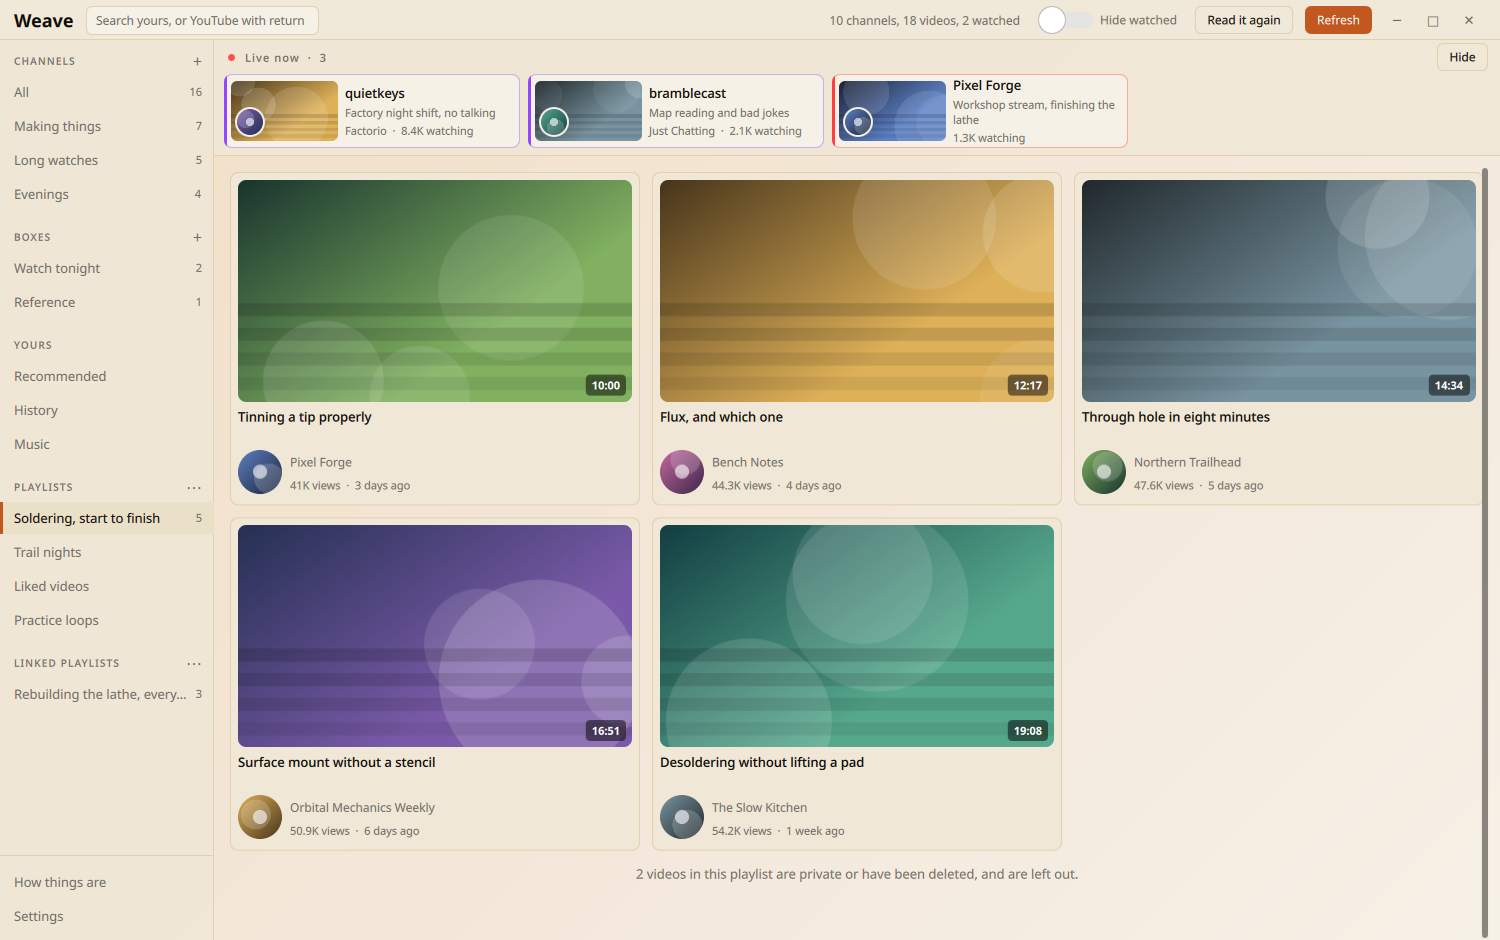
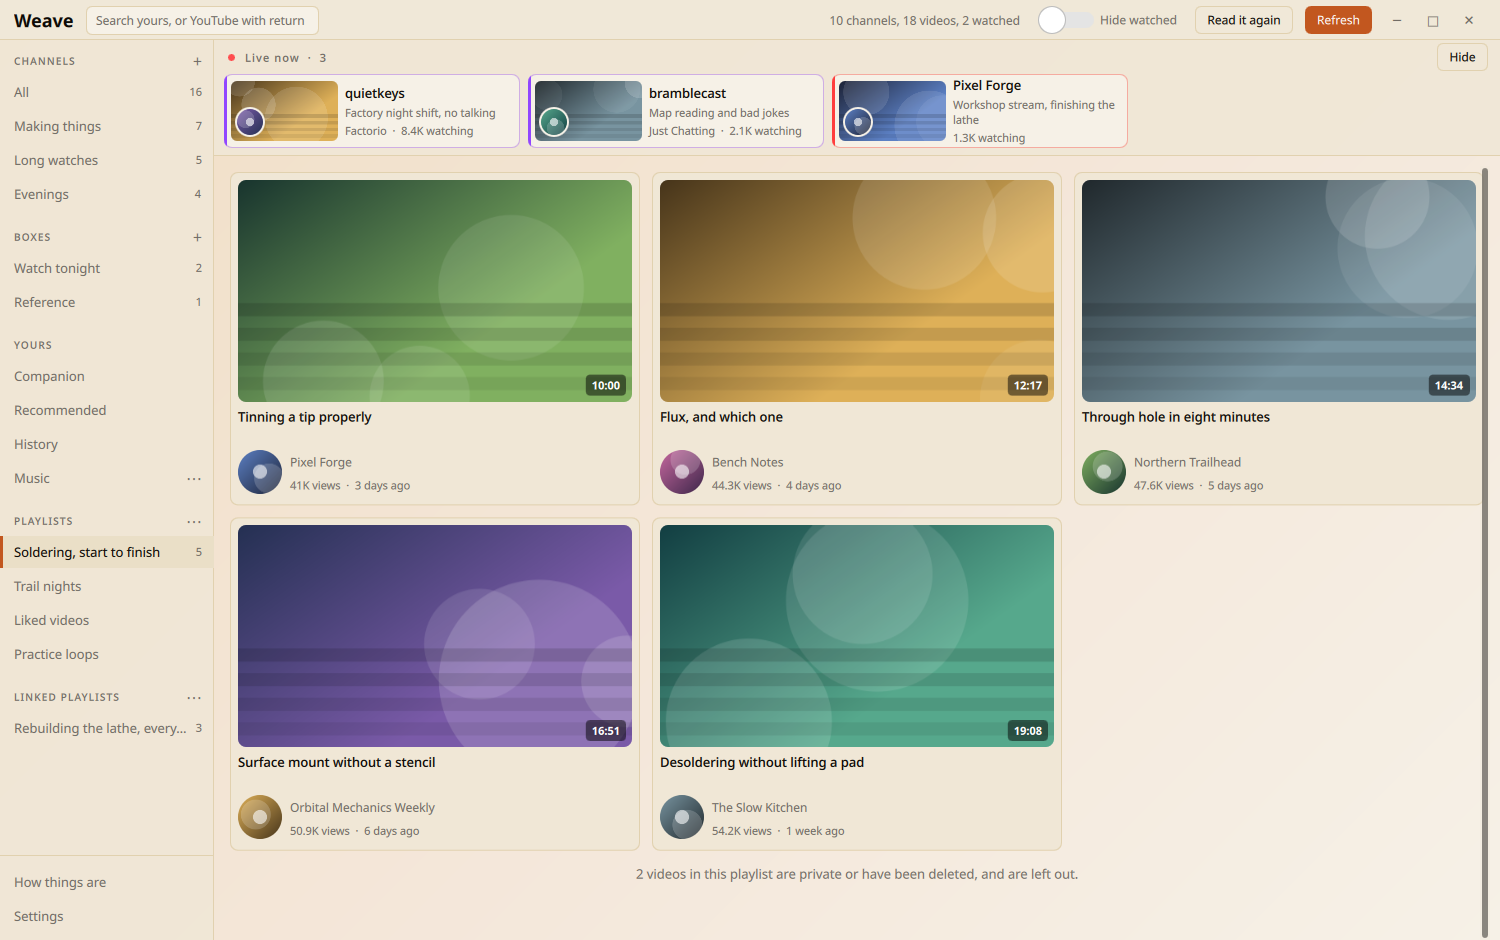
Bring the readme and its pictures up to the October changes
The readme said only favourites were kept on disk and put their ceiling on
the settings page. Any box ticked Keep on disk is kept as well, and the
ceiling sits in the music settings now. It also never mentioned the
companion page, boxes of songs, the search filters and suggestions, or
turning a playlist round.

Every picture is taken again, and three are new: the companion page, the
Now playing page following a song on its lyrics tab, and a box of songs on
its tab. The music picture had lost the shelves it is captioned with,
because the invented shelf songs carried no artist field and a stored set
without one is thrown away as written before songs had it.

Changed region(s): [[0.0, 0.4011, 0.1227, 0.8021]]

diff --git a/tools/shots.py b/tools/shots.py
@@ -42,7 +42,15 @@ os.environ.setdefault("QT_QPA_PLATFORM", "offscreen")
 os.environ.setdefault("QT_QUICK_BACKEND", "rhi")
 os.environ.setdefault("QSG_RHI_BACKEND", "opengl")
 
-from PySide6.QtCore import QCoreApplication, QEventLoop, QMetaObject, QObject, QPointF, QTimer  # noqa: E402
+from PySide6.QtCore import (  # noqa: E402
+    Q_ARG,
+    QCoreApplication,
+    QEventLoop,
+    QMetaObject,
+    QObject,
+    QPointF,
+    QTimer,
+)
 from PySide6.QtGui import QBrush, QColor, QImage, QLinearGradient, QPainter  # noqa: E402
 from PySide6.QtQml import QQmlProperty  # noqa: E402
 
@@ -219,6 +227,51 @@ TRACKS = [
 
 SHELVES = ("Listen again", "Quick picks", "Covers and remixes", "Long listens")
 
+# A box of songs, which makes the tabs over the music page something to see.
+BOX = ("Late drives", (1, 2, 4, 6, 8, 9, 10, 12, 13, 7, 11, 0, 3, 5))
+
+# Words for the song playing in the Now playing picture, timed the way the
+# music service times them. Written for the picture, nobody's song.
+LYRICS = [
+    (74.0, "Salt on the window, the engine's low hum"),
+    (79.5, "Counting the lighthouses, one after one"),
+    (85.0, "You said the coast would be kinder up there"),
+    (90.5, "\u266a"),
+    (96.0, "Long way north, and the road keeps unwinding"),
+    (101.0, "Every mile is a letter I am still writing"),
+    (106.5, "Hold the map steady, the night is still young"),
+    (112.0, "Long way north, till the morning comes"),
+]
+
+# What YouTube recommends beside the video mpv plays, and mpv's playlist, on
+# the companion page.
+COMPANION_CHIPS = ("Mix", "All", "From Kite and Anchor", "Indie folk", "Related",
+                   "Recently uploaded")
+COMPANION_QUEUE = [
+    ("Night Ferry (Official Video)", "Kite and Anchor", "3:28"),
+    ("Harbour Lights (Live at the Old Mill)", "Mireille Vance", "4:12"),
+    ("Long Way North (Official Video)", "Kite and Anchor", "4:07"),
+    ("Glasshouse (Official Music Video)", "Nocturne Drive", "3:43"),
+    ("Second Winter (Acoustic)", "Field of Aerials", "4:28"),
+    ("Paper Lantern", "Bright Static", "3:09"),
+    ("Blue Hour (Visualiser)", "Ilma Rook", "4:04"),
+    ("Tidal (Official Video)", "Field of Aerials", "3:18"),
+]
+COMPANION_CARDS = [
+    ("Static Bloom (Official Video)", "Nocturne Drive", "3:22"),
+    ("Hollow Coast (Live Session)", "Mireille Vance", "3:34"),
+    ("Copper Rain (Live at the Old Mill)", "Bright Static", "5:03"),
+    ("Kite Season", "Kite and Anchor", "4:41"),
+    ("Slow Ascent (Official Video)", "Ilma Rook", "4:55"),
+    ("Low Tide Radio", "Field of Aerials", "3:51"),
+    ("Winter Grain (Lyric Video)", "Mireille Vance", "3:56"),
+    ("Lamplight", "Bright Static", "3:07"),
+    ("Undertow (Official Video)", "Ilma Rook", "4:17"),
+    ("North Shore Sessions, full set", "Kite and Anchor", "38:12"),
+    ("Glass Coast", "Nocturne Drive", "3:40"),
+    ("Second Light", "Field of Aerials", "4:02"),
+]
+
 
 def track_items(offset: int, count: int) -> list[dict]:
     items = []
@@ -226,6 +279,9 @@ def track_items(offset: int, count: int) -> list[dict]:
         title, artist, _ = TRACKS[(offset + index) % len(TRACKS)]
         items.append({
             "title": title, "subtitle": artist,
+            # Present, even empty. A stored set without it is one written
+            # before songs carried their artist, and is thrown away unshown.
+            "artistId": "",
             "videoId": f"mocktrack{offset + index:03d}",
             "playlistId": f"RDAMVMmocktrack{offset + index:03d}",
             # A shelf carries the address the service gave it, which the tile
@@ -393,6 +449,12 @@ def seed(theme: str, height: int = HEIGHT) -> None:
         title, artist, seconds = TRACKS[index]
         db.set_music_favorite(f"mocktrack{index:03d}", True, title, artist,
                               thumb(f"track{index:02d}", index + 40, 320, 320), seconds)
+    box = db.create_music_box(BOX[0])
+    db.put_many_in_music_box(box, [{
+        "ext_id": f"mocktrack{index:03d}", "title": TRACKS[index][0],
+        "artist": TRACKS[index][1], "duration_s": TRACKS[index][2],
+        "thumbnail_url": thumb(f"track{index:02d}", index + 40, 320, 320),
+    } for index in BOX[1]])
 
     # A login of its own, which is what the bar and the settings page read
     # to decide whether to ask for one. Invented, and in the scratch home.
@@ -566,6 +628,76 @@ def shot_music(bridge, _window) -> None:
     settle(3.0)
 
 
+def shot_box(bridge, _window) -> None:
+    """A box of songs, on its tab of the music page."""
+    bridge.showMusic()
+    playing(bridge, at=4)
+    settle(0.6)
+    box = next(row["id"] for row in bridge._db.music_boxes()
+               if row["name"] == BOX[0])
+    bridge.showMusicTab(box)
+    settle(3.0)
+
+
+def shot_nowplaying(bridge, window) -> None:
+    """The page behind the chevron on its Lyrics tab, following the song.
+
+    The words are handed over the way the reading hands them over, since
+    offline nothing arrives. The song has no video here, so its artwork
+    stands where the picture would be."""
+    playing(bridge)
+    audio = bridge._audio
+    # An id of the length the page reads one out of an address.
+    audio._queue[2]["videoId"] = "mocktrack02"
+    audio.trackChanged.emit()
+    bridge.showNowPlaying()
+    settle(1.2)
+    page = find(window, "nowPlayingPage")
+    if page is not None:
+        QMetaObject.invokeMethod(page, "choose", Q_ARG("QVariant", "words"))
+    settle(1.0)
+    lines = [{"at": at, "end": (LYRICS[place + 1][0] if place + 1 < len(LYRICS)
+                                else at + 6.0), "text": text}
+             for place, (at, text) in enumerate(LYRICS)]
+    bridge._on_now_side({
+        "what": "words", "videoId": "mocktrack02", "wordsId": "", "synced": True,
+        "text": "\n".join(text for _at, text in LYRICS if text != "\u266a"),
+        "source": "", "lines": lines})
+    settle(1.6)
+
+
+def shot_companion(bridge, _window) -> None:
+    """The companion page beside a video mpv is playing, without an mpv.
+
+    What the watcher and the recommendations would hand over is handed over
+    here, and the pictures of the queue are put where the cache would look
+    for them."""
+    queue = [f"compqueue{index:02d}" for index in range(len(COMPANION_QUEUE))]
+    for index, (video_id, (title, channel, duration)) in enumerate(
+            zip(queue, COMPANION_QUEUE)):
+        cache(f"https://i.ytimg.com/vi/{video_id}/mqdefault.jpg",
+              _picture(480, 270, index + 70))
+        bridge._companion_known[video_id] = {
+            "title": title, "channel": channel, "duration": duration}
+    cards = [{"video_id": f"compcards{index:02d}", "title": title, "channel": channel,
+              "channel_id": "", "duration": duration, "views": "", "age": "",
+              "picture": thumb(f"companion{index:02d}", index + 90)}
+             for index, (title, channel, duration) in enumerate(COMPANION_CARDS)]
+    playing_at = 2
+    bridge._companion_cache[queue[playing_at]] = {
+        "chips": [{"label": label, "token": "invented"} for label in COMPANION_CHIPS],
+        "cards": {COMPANION_CHIPS[0]: cards}}
+    bridge._remember_companion_cards(cards)
+    bridge._mpv_running = True
+    bridge._mpv_key = f"yt:{queue[playing_at]}"
+    bridge._mpv_playlist = [{
+        "url": f"https://www.youtube.com/watch?v={video_id}",
+        "current": index == playing_at, "title": ""}
+        for index, video_id in enumerate(queue)]
+    bridge.showCompanion()
+    settle(2.4)
+
+
 def shot_channel(bridge, _window) -> None:
     bridge.openChannel(f"yt:UCmock{0:018d}")
     settle(2.0)
@@ -647,8 +779,8 @@ def shot_themes(bridge, window) -> None:
 # row laid out below the fold is never given its pictures, so that one is
 # taken in a taller window rather than by scrolling to it.
 # A different theme in every picture, and none of them twice, because the
-# pictures are also the tour of what ships. Fourteen ship and seven are in the
-# readme, so the ones in it are seven that nothing else shows. Only ones that
+# pictures are also the tour of what ships. Fourteen ship and thirteen are
+# taken here, nine of them in the readme. Only ones that
 # ship: a theme somebody wrote for themselves is not in anybody else's copy,
 # and the shot would come out in whatever the fallback is.
 SHOTS = {
@@ -662,6 +794,9 @@ SHOTS = {
     "search": ("Violet Glow", shot_search, HEIGHT),
     "history": ("Paper Dark", shot_history, HEIGHT),
     "themes": ("Frost", shot_themes, 1080),
+    "nowplaying": ("Nitro Pop", shot_nowplaying, HEIGHT),
+    "companion": ("Blossom", shot_companion, HEIGHT),
+    "box": ("Paper", shot_box, 760),
 }
 
 

diff --git a/README.md b/README.md
@@ -39,7 +39,10 @@ https://github.com/user-attachments/assets/cc89faf0-0ee0-4dc1-bbb0-d89526c3ddd2
   player rather than handed over to fail
 * Members only videos live in a feed of their own, read by a button on that
   channel's page, badged wherever they appear and never poured into the feed
-* Search everything stored as you type, or press enter to search YouTube itself
+* Search everything stored as you type, or press enter to search YouTube itself,
+  narrowed by sort order, upload date and length. While you type, the words go to
+  YouTube after each pause, the way its own search box sends them, and what it
+  suggests opens under the box, asked anonymously or as your account
 * What YouTube suggests, the history it keeps and your own playlists, each in its
   own place and never poured into the feed
 * A track that is really a whole record has its songs marked on the player bar,
@@ -47,8 +50,11 @@ https://github.com/user-attachments/assets/cc89faf0-0ee0-4dc1-bbb0-d89526c3ddd2
   under the pointer, and a press with the right button lands on the start of one
 * A detail panel that follows what `mpv` is playing, with views, likes, an
   estimated dislike count and the top comment threads
-* A music area with its own player bar, a queue you can reorder, favourites, the
-  listening it remembers, and media keys through MPRIS
+* A companion page beside whatever `mpv` is playing, with what YouTube
+  recommends for that video and the queue `mpv` holds, which you fill, order and
+  clear from the window
+* A music area with its own player bar, a queue you can reorder, favourites,
+  boxes of songs, the listening it remembers, and media keys through MPRIS
 * Themes are files, fourteen come with it, and there is an editor with a colour
   wheel that derives a whole palette from two dots
 * A channel page in three parts, the videos, the streams it has made and the
@@ -71,6 +77,20 @@ Closing the panel closes it until the next video starts, and closing `mpv`
 closes it as well, since there is then nothing to mirror. A Twitch stream shows
 what a stream has instead, who is on, what they are playing, how many are
 watching and how long it has been going.
+
+![The companion page beside a video mpv is playing](docs/shots/companion.png)
+
+*Blossom. What YouTube recommends beside the video `mpv` is playing, and the
+playlist `mpv` holds in the column on the right, the one playing marked.*
+
+The **Companion** page in the sidebar follows the same video from further
+away. It shows what YouTube recommends beside it, a mix first and then the
+chips YouTube offers itself, with the queue `mpv` holds in a column next to
+them. A recommended video pressed goes on the end of that queue, and its menu
+plays it next or now instead. The queue is put in order by dragging, emptied of
+everything but the video playing with one press, or kept as a box of songs.
+The page asks YouTube only while it is open, and keeps each answer for the rest
+of the session.
 
 ## A channel on its own
 
@@ -108,12 +128,32 @@ the track playing and the one after it. The next address is resolved as the
 current track starts, so a changeover is a millisecond and going back a track
 costs nothing.
 
-Favourites are the exception, and they are kept on disk. Your favourites are a
-short list you mark yourself and play over and over, and streaming one means
-paying for the address and the wait every time. Both halves are kept, the
-sound and the picture, written the first time the song is played rather than
-fetched ahead of it. There is a ceiling on the settings page, and a song that stops
-being a favourite drops what was kept for it.
+![A box of songs on its own tab of the music page](docs/shots/box.png)
+
+*Paper. A box of songs on a tab of its own, next to the shelves and the
+favourites.*
+
+Songs go in boxes of your own as well, each box a tab on the music page beside
+the shelves. A song goes in from its right click menu, a video card can put its
+video in one, and the whole queue can be kept as a box. The songs on a tab are
+put in order by dragging, and **Watch in mpv** on one of them hands `mpv` the
+whole box as a playlist, starting from that song. The shelves themselves can be
+hidden or put in another order in the music settings, behind the dots on
+**Music**.
+
+Favourites, and any box ticked **Keep on disk**, are the exception, and their
+songs are kept on disk. Favourites are a short list you mark yourself and play
+over and over, and streaming one means paying for the address and the wait
+every time. Both halves are kept, the sound and the picture, written the first
+time the song is played rather than fetched ahead of it. There is a ceiling in
+the music settings, and a song that leaves every kept box drops what was kept
+for it.
+
+![The Now playing page on its lyrics tab](docs/shots/nowplaying.png)
+
+*Nitro Pop. The lyrics tab following the song, the line being sung over the next
+one, with the queue beside it. This song has no video, so its artwork stands
+where the picture would be.*
 
 The page behind the chevron on the bar shows the song itself, the video where
 there is one and the artwork where there is not, with the queue beside it. Its
@@ -140,9 +180,11 @@ rather than quietly making it shorter.*
 
 Nothing is read at launch. The menu beside **Playlists** reads the list, which
 carries no contents, and opening one reads that playlist. Each playlist can be
-hidden on its own and the order is yours. Clicking a video hands `mpv` the whole
-playlist starting there. A playlist can also be marked as music, after which a
-press on one of its videos goes to the player bar instead.
+hidden on its own and dragged into the order you want, and any one can be
+turned round, shown and played from its last video to its first. Clicking a
+video hands `mpv` the whole playlist starting there. A playlist can also be
+marked as music, after which a press on one of its videos goes to the player bar
+instead.
 
 ## Themes
 
